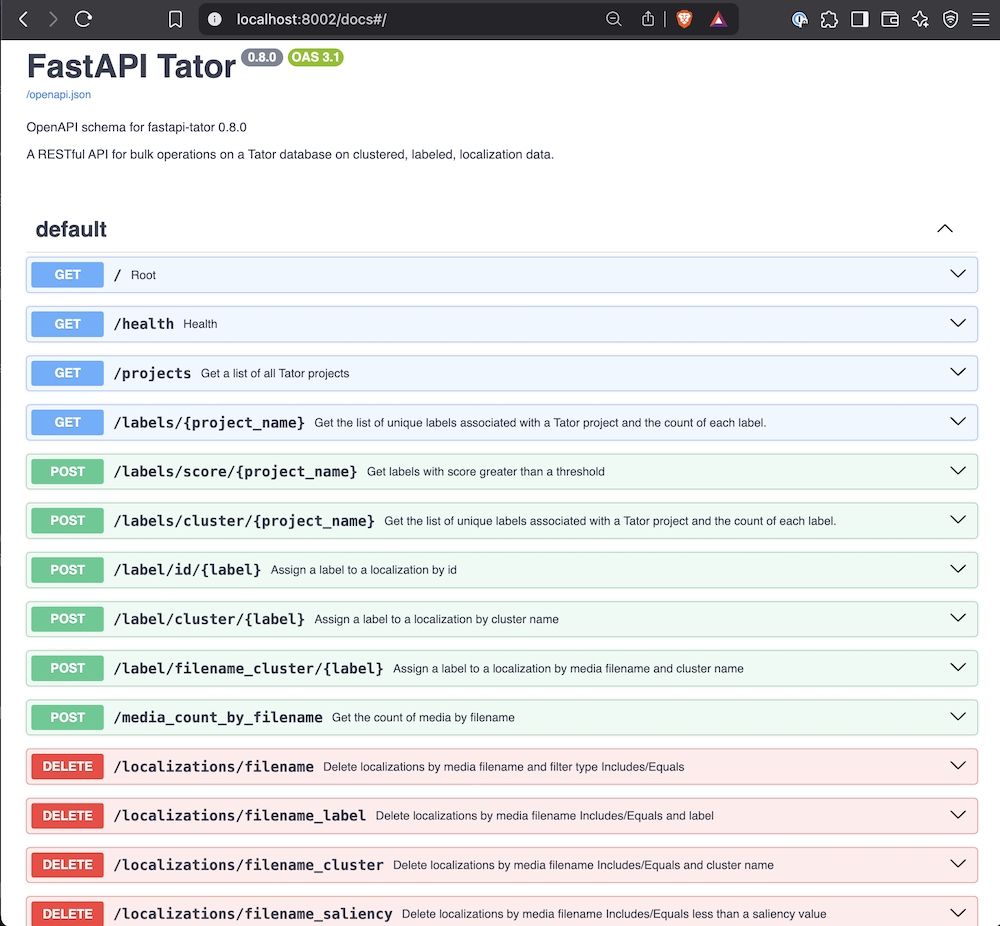
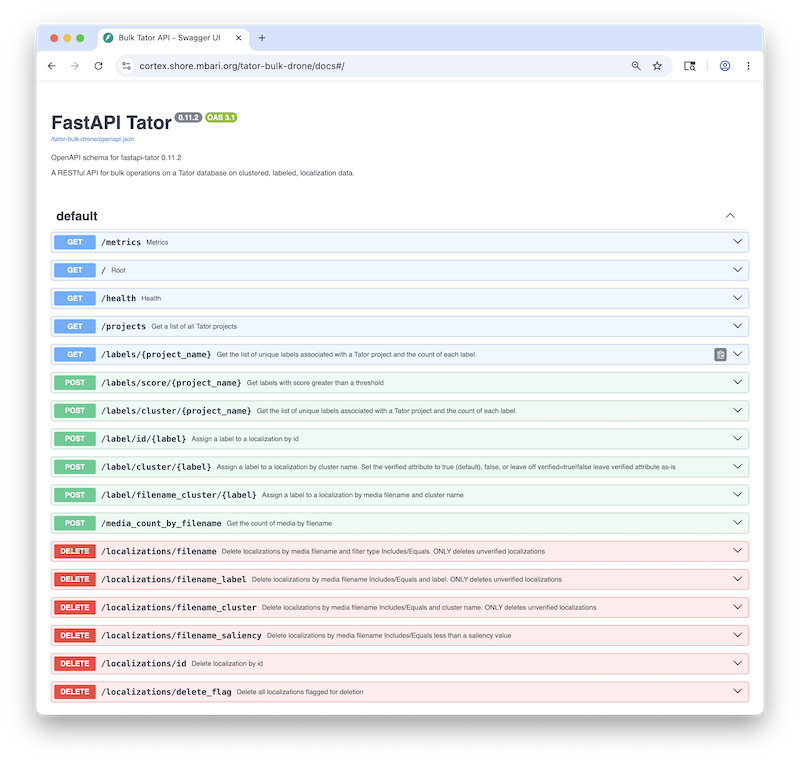
fix: added CORS support

Changed region(s): [[0.0, 0.0, 1.0, 1.0], [0.9688, 0.9948, 1.0, 1.0]]

diff --git a/src/app/main.py b/src/app/main.py
@@ -2,11 +2,14 @@
 # Filename: app/main.py
 # Description: Runs a FastAPI server for common bulk operations on tator
 
+import os
 from contextlib import asynccontextmanager
 from pathlib import Path
+from typing import List
 
 from fastapi import FastAPI, status, Request, BackgroundTasks
 from fastapi.encoders import jsonable_encoder
+from fastapi.middleware.cors import CORSMiddleware
 from fastapi.responses import JSONResponse
 from fastapi.openapi.utils import get_openapi
 
@@ -71,6 +74,22 @@ app = FastAPI(
 )
 
 Instrumentator().instrument(app).expose(app)
+
+# Origins allowed for CORS (e.g. when behind a reverse proxy). Comma-separated list via FASTAPI_TATOR_CORS_ORIGINS.
+CORS_ORIGINS: List[str] = []
+_cors_env = os.environ.get("FASTAPI_TATOR_CORS_ORIGINS", "").strip()
+if _cors_env:
+    CORS_ORIGINS.extend(origin.strip() for origin in _cors_env.split(",") if origin.strip())
+
+if CORS_ORIGINS:
+    app.add_middleware(
+        CORSMiddleware,
+        allow_origins=CORS_ORIGINS,
+        allow_credentials=True,
+        allow_methods=["*"],
+        allow_headers=["*"],
+        expose_headers=["*"],
+    )
 
 # Exception handler for 404 errors
 @app.exception_handler(NotFoundException)